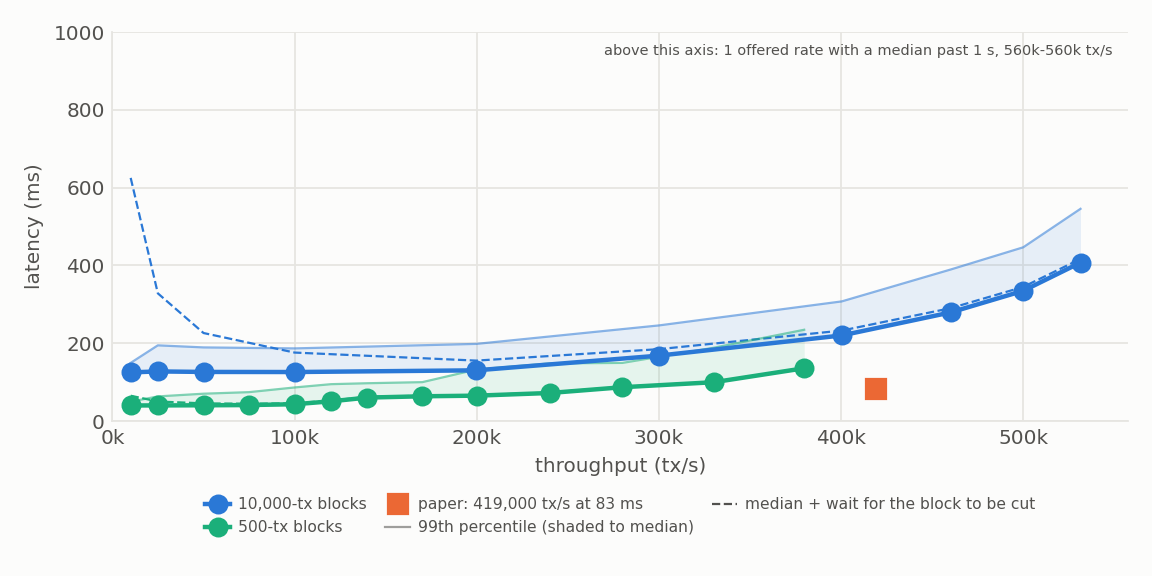
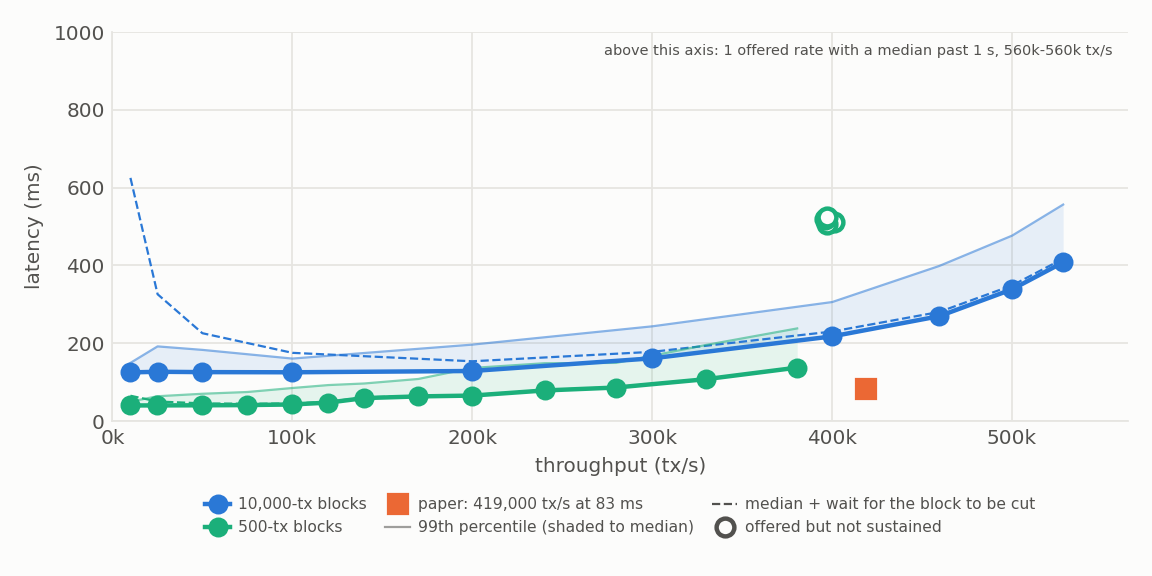
[eval] Plot conflict points only at the documented reference gap
Panel 9c took the best row per x regardless of how the conflict was generated, and the rows
are not one workload. `9c-ds5` alone spans five configurations -- gap 0 with a 10M lookback,
gap 1,000, gap 225,000, gap 300,000, and one row at gap 0 with a 1,024 lookback -- and
`9c-ds10` spans gap 1,000 and 300,000. At a short gap the referent of a back-reference is
still in flight, so the dependency graph holds the pair and serialises it and the conflict
never reaches the insert path. The document's own setup says this: a reference to a key still
in flight "is a dependency the coordinator has to order, which is a different measurement
wearing the same label".

That mechanism also reads higher, so taking the best row per x silently preferred it -- the 5%
bar drew 26,116 tps from a gap-1,000 run over 21,273 from the documented one.

`load()` now drops any row with a non-zero conflict share whose gap is not 300,000, so the
reported points and the collapsed ones are filtered by one rule, and prints what it dropped.
62 rows go: the gap-1,000 and gap-225,000 `9c-ds5`/`ds10` rows, `9c-ds5-gap1m`, and all of
`split0-ds10/20/30`, which were gap 0. The split0 rows are the three the panel's own comment
had already excluded by hand, and they carried the "default tablet split" legend while being
`pre_split_tablets: 0` -- pre-splitting disabled, against an inventory default of 120.

Rows with no conflicts are unaffected: with nothing to back-reference the gap does not apply,
[…]

diff --git a/eval/scripts/fx-plot-figures.py b/eval/scripts/fx-plot-figures.py
@@ -144,6 +144,28 @@ PANELS = [
 ]
 
 
+# The reference gap the setup documents, and the only one a conflict point may be measured at. A
+# back-reference is a double spend only if the key it names is already committed; at a short gap the
+# referent is still in flight, so the dependency graph holds the pair and serialises it and the conflict
+# never reaches the insert path at all. That is a different mechanism wearing the same x axis, and it
+# reads HIGHER, so a panel that takes the best row per x silently prefers it: 9c's 5% bar drew 26,116 tps
+# from a gap-1,000 run over 21,273 from the documented one. Rows are dropped at load so both the reported
+# points and the collapsed ones are filtered by the same rule.
+REFERENCE_GAP = 300_000
+
+
+def documented_gap(row):
+    """True if this row's conflict share was measured at the documented reference gap.
+
+    Rows with no conflicts are unaffected -- with nothing to back-reference the gap does not apply, and
+    the earliest runs predate the parameter and record it as absent.
+    """
+    v = row.get("vars") or {}
+    if not (v.get("loadgen_key_backref_rate") or 0):
+        return True
+    return v.get("loadgen_tx_reference_gap") == REFERENCE_GAP
+
+
 def load(path):
     rows = []
     with open(path) as f:
@@ -151,7 +173,12 @@ def load(path):
             line = line.strip()
             if line:
                 rows.append(json.loads(line))
-    return rows
+    dropped = [r for r in rows if not documented_gap(r)]
+    if dropped:
+        gaps = sorted({(r.get("vars") or {}).get("loadgen_tx_reference_gap") for r in dropped})
+        print(f"  dropped {len(dropped)} conflict rows measured at gap {gaps} "
+              f"(documented gap is {REFERENCE_GAP:,})")
+    return [r for r in rows if documented_gap(r)]
 
 
 def throughput(row):

diff --git a/eval/figures-ecdsa/figures-table.md b/eval/figures-ecdsa/figures-table.md
@@ -14,20 +14,28 @@ SPDX-License-Identifier: Apache-2.0
 | 9b | 20% | 518,400 | 517,091 | 103,399 | 343 | 338 | 494 | 121.1 | 156 | 33% | 19% | 22% | commit6 |
 | 9b | 30% | 518,400 | 518,545 | 155,549 | 408 | 394 | 666 | 158.3 | 135 | 29% | 19% | 20% | commit6 |
 | 9c | 0% | 518,400 | 518,000 | 0 | 345 | 341 | 457 | 135.7 | 194 | 40% | 18% | 25% | commit6 |
-| curve500 | 500-tx blocks | 380,000 | 379,764 | 0 | 138 | 136 | 235 | 66.3 | 603 | 28% | 14% | 19% | commit6 |
-| split | 10% double spend, default tablet split | 95,158 | 95,273 | 9,064 | 145 | 130 | 197 | 17.6 | 138 | 7% | 2% | 4% | commit8 |
-| split | 20% double spend, default tablet split | 25,500 | 25,455 | 4,625 | 149 | 134 | 364 | 17.5 | 8 | 2% | 1% | 1% | commit4 |
-| split | 30% double spend, default tablet split | 88,108 | 88,182 | 22,768 | 157 | 148 | 323 | 16.5 | 25 | 7% | 2% | 4% | commit6 |
+| curve500 | 500-tx blocks | 380,000 | 380,673 | 0 | 141 | 137 | 238 | 66.0 | 603 | 28% | 14% | 19% | commit5 |
 | graph | 1 read-writes, global graph | 432,000 | 431,818 | 0 | 232 | 228 | 371 | 75.4 | 162 | 32% | 17% | 20% | commit6 |
 | graph | 4 read-writes, global graph | 184,237 | 184,182 | 0 | 181 | 177 | 244 | 38.4 | 69 | 14% | 8% | 9% | commit6 |
 | curve | 10,000 offered | 10,000 | 10,000 | 0 | 126 | 125 | 150 | 29.9 | 4 | 1% | 0% | 0% | commit1 |
+| curve | 10,000 offered | 10,000 | 10,000 | 0 | 122 | 125 | 150 | 30.5 | 4 | 1% | 0% | 0% | commit7 |
 | curve | 25,000 offered | 25,000 | 24,909 | 0 | 130 | 128 | 195 | 31.7 | 13 | 2% | 1% | 1% | commit12 |
+| curve | 25,000 offered | 25,000 | 25,091 | 0 | 126 | 127 | 192 | 32.4 | 13 | 2% | 1% | 1% | commit7 |
 | curve | 50,000 offered | 50,000 | 50,000 | 0 | 129 | 126 | 189 | 30.5 | 32 | 4% | 1% | 2% | commit5 |
+| curve | 50,000 offered | 50,000 | 49,993 | 0 | 121 | 126 | 183 | 29.3 | 32 | 4% | 1% | 2% | commit7 |
 | curve | 100,000 offered | 100,000 | 100,000 | 0 | 129 | 126 | 187 | 29.5 | 70 | 8% | 2% | 5% | commit4 |
+| curve | 100,000 offered | 100,000 | 100,000 | 0 | 123 | 125 | 161 | 28.8 | 69 | 8% | 3% | 4% | commit7 |
 | curve | 200,000 offered | 200,000 | 199,818 | 0 | 139 | 130 | 198 | 33.7 | 144 | 15% | 6% | 9% | commit5 |
+| curve | 200,000 offered | 200,000 | 200,000 | 0 | 133 | 129 | 196 | 34.1 | 145 | 15% | 6% | 9% | commit6 |
 | curve | 300,000 offered | 300,000 | 300,000 | 0 | 167 | 168 | 246 | 47.7 | 258 | 23% | 11% | 14% | commit5 |
+| curve | 300,000 offered | 300,000 | 300,182 | 0 | 162 | 161 | 243 | 48.7 | 257 | 23% | 11% | 14% | commit5 |
 | curve | 400,000 offered | 400,000 | 400,364 | 0 | 221 | 220 | 308 | 77.5 | 407 | 31% | 15% | 20% | commit5 |
+| curve | 400,000 offered | 400,000 | 400,182 | 0 | 218 | 218 | 306 | 77.4 | 408 | 30% | 14% | 19% | commit6 |
 | curve | 460,000 offered | 460,000 | 460,182 | 0 | 282 | 279 | 390 | 109.0 | 582 | 35% | 17% | 23% | commit5 |
+| curve | 460,000 offered | 460,000 | 459,636 | 0 | 272 | 269 | 399 | 105.6 | 581 | 35% | 16% | 22% | commit6 |
 | curve | 500,000 offered | 500,000 | 500,000 | 0 | 338 | 335 | 447 | 137.5 | 769 | 39% | 18% | 25% | commit4 |
+| curve | 500,000 offered | 500,000 | 500,182 | 0 | 343 | 339 | 477 | 144.2 | 770 | 38% | 18% | 24% | commit6 |
 | curve | 530,000 offered | 530,000 | 531,455 | 0 | 409 | 407 | 546 | 170.3 | 970 | 40% | 19% | 26% | commit5 |
+| curve | 530,000 offered | 530,000 | 528,545 | 0 | 412 | 408 | 556 | 178.9 | 969 | 40% | 19% | 26% | commit6 |
 | curve | 560,000 offered | 560,000 | 554,909 | 0 | 5,066 | 5,333 | 7,457 | 194.1 | 1,177 | 41% | 21% | 27% | commit5 |
+| curve | 560,000 offered | 560,000 | 538,182 | 0 | 5,296 | 6,233 | 7,475 | 209.2 | 1,176 | 41% | 22% | 26% | commit6 |
